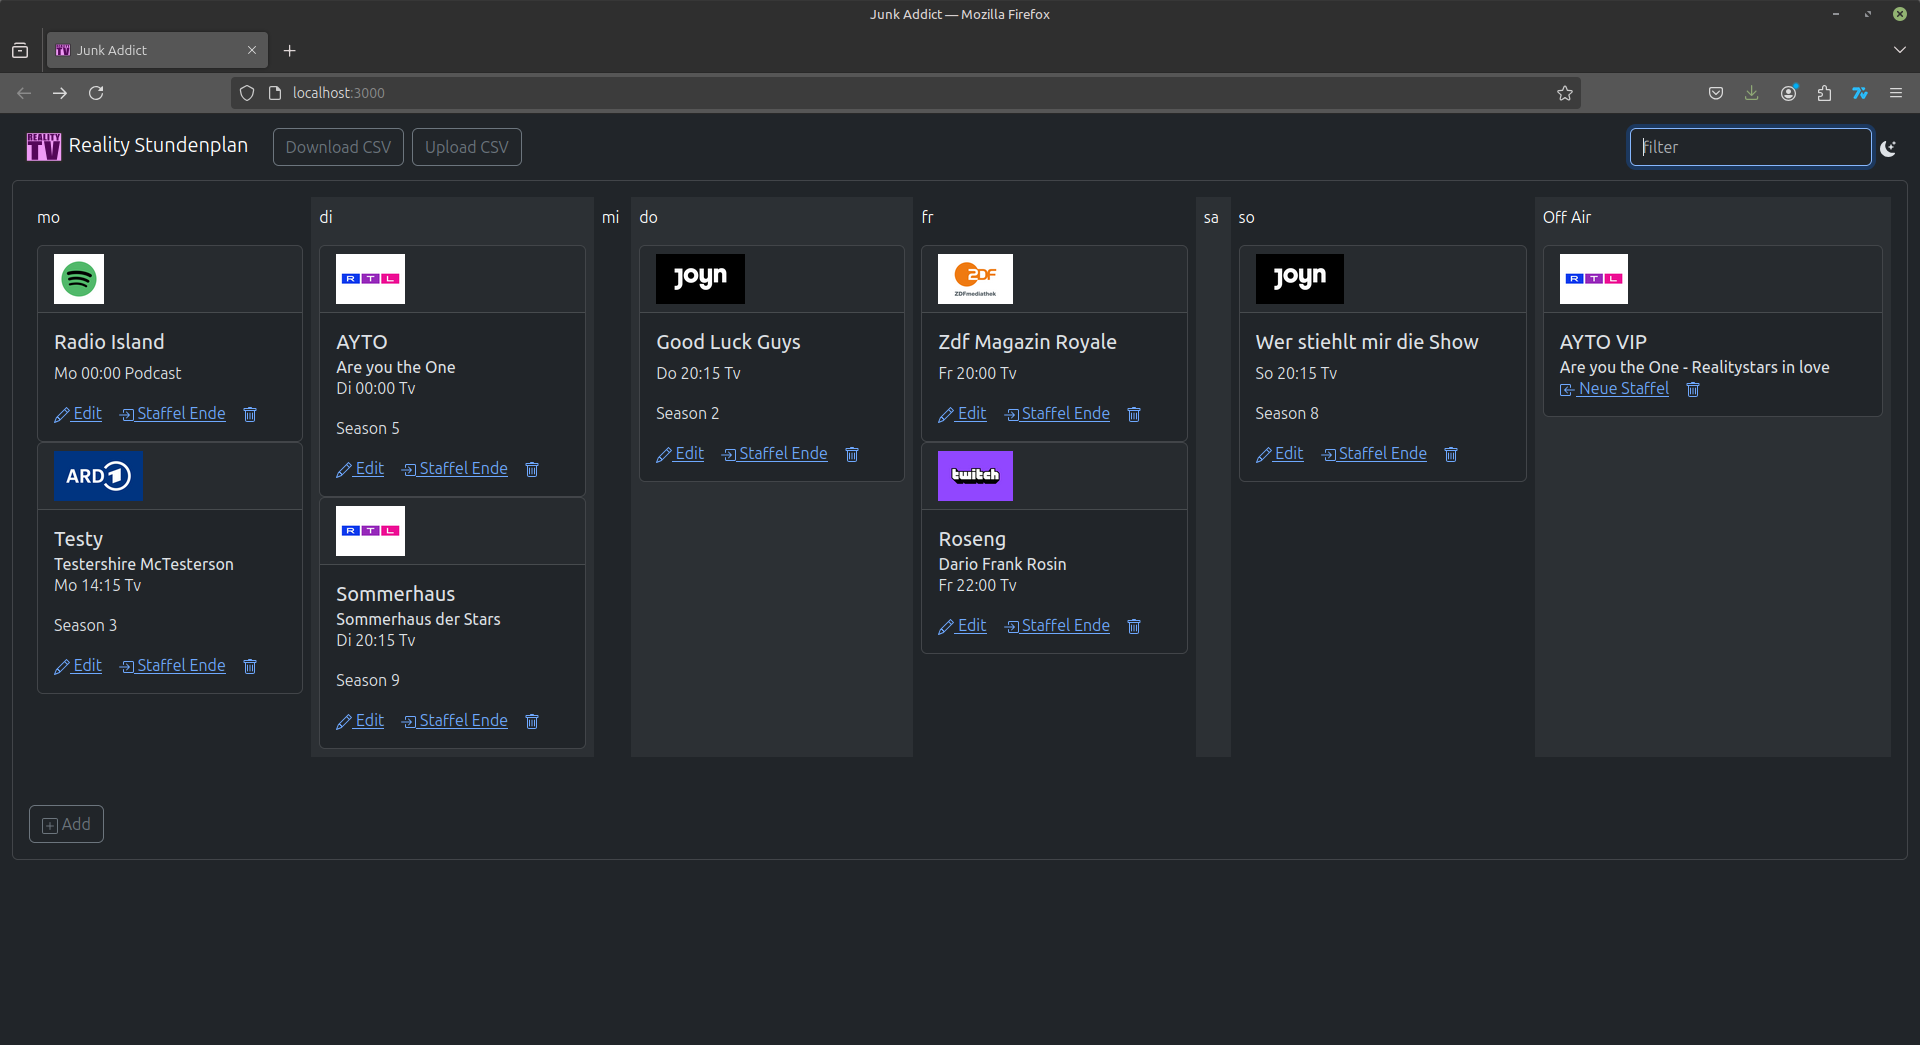
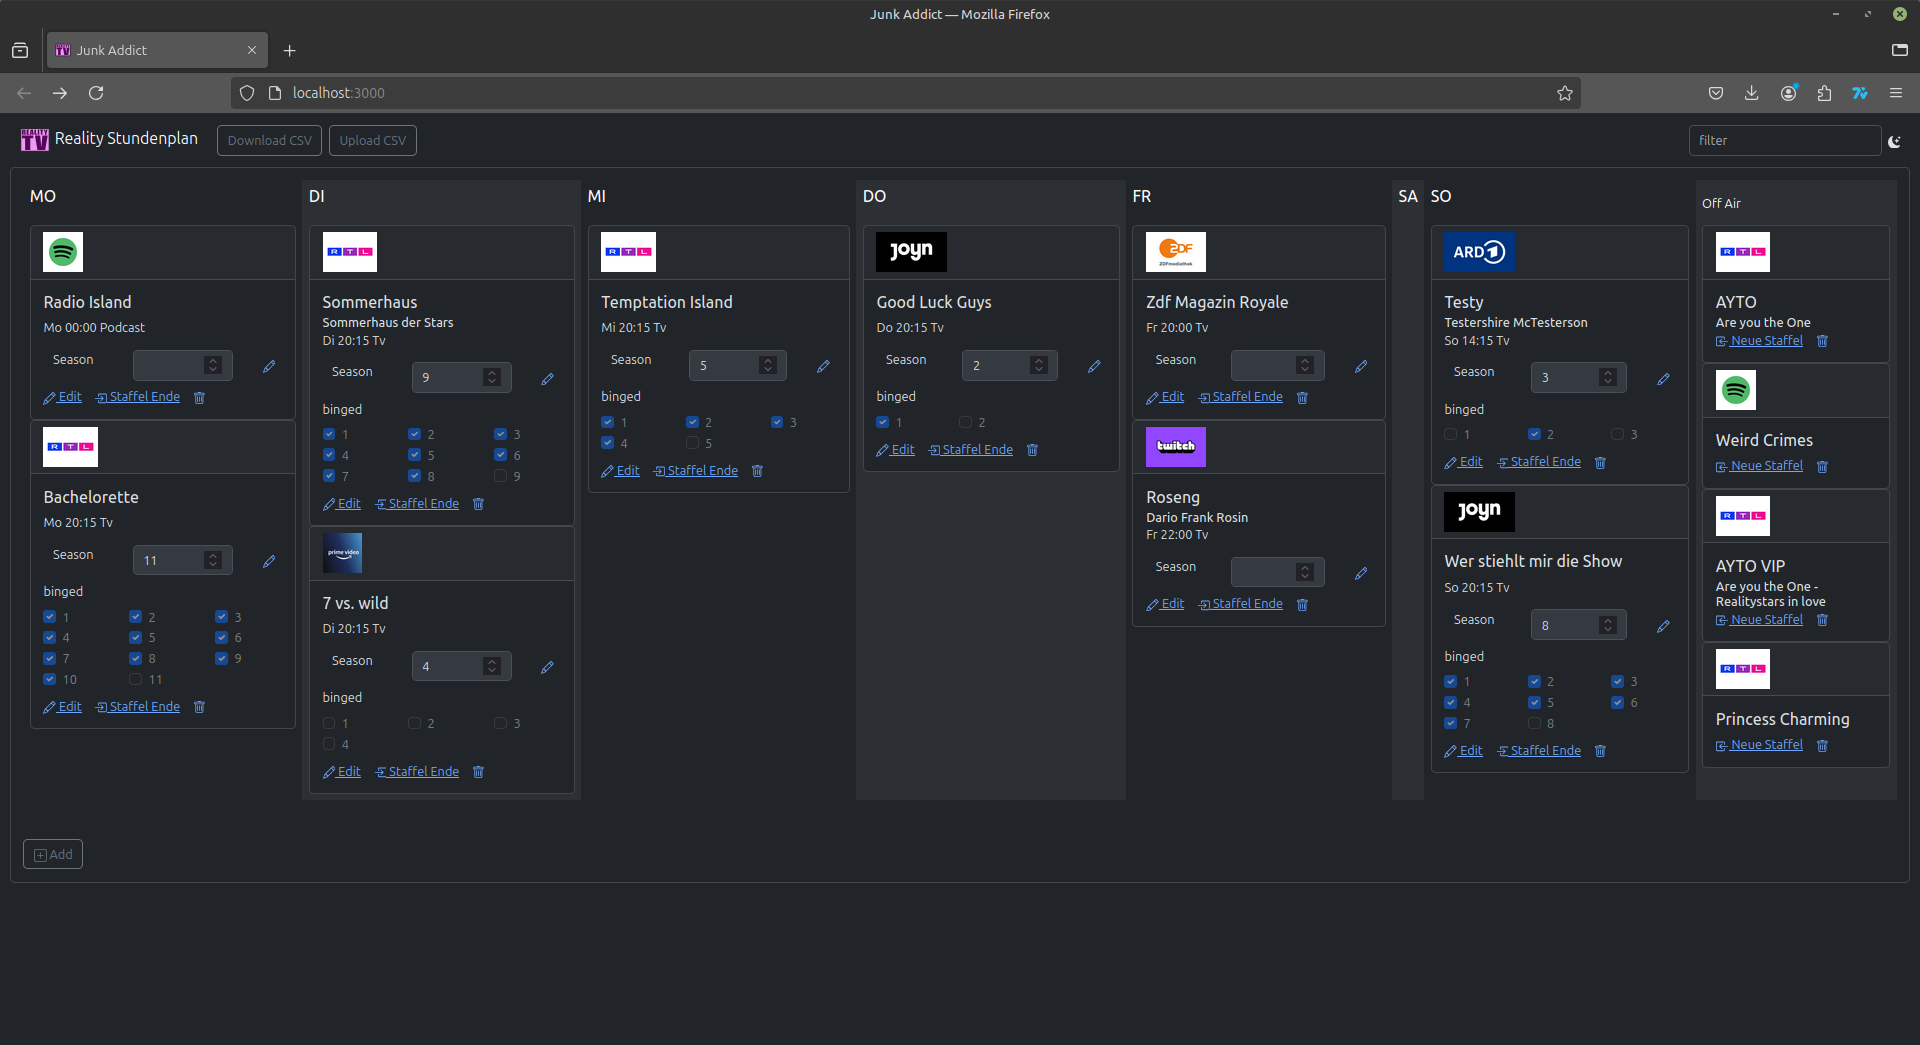
cleanup

diff --git a/src/components/junk/JunkTableCard.jsx b/src/components/junk/JunkTableCard.jsx
@@ -16,7 +16,7 @@ function JunkTableCard({displayPrograms, addNewProgram, changeProgram, removePro
     onAirPrograms.map((p) => dayGroups[p.day].push(p));
 
     const displayTableHeaders = (Object.keys(dayGroups))
-        .map((k) => <td key={k}>{k}</td>);
+        .map((k) => <td key={k}><h5>{k.toUpperCase()}</h5></td>);
     displayTableHeaders.push(<td key="currentlyOff">Off Air</td>);
 
     const displayTableBodyJunkDays = (Object.entries(dayGroups))

diff --git a/public/index.html b/public/index.html
@@ -6,7 +6,7 @@
     <link rel="icon" href="%PUBLIC_URL%/favicon.svg">
     <title>Junk Addict</title>
   </head>
-  <body>
+  <body style="zoom: 80%">
     <noscript>You need to enable JavaScript to run this app.</noscript>
     <div id="root"></div>
   </body>

diff --git a/README.md b/README.md
@@ -4,7 +4,7 @@ A timetable to manage all the junk you watch.
 
 ![Screenshot of Application](./src/assets/JunkAddictScreenshot.png)
 
-Find an example for a CSV file to upload in the application here [junkDataExport.csv](./src/data/junkDataExport_2024-09-29.csv) or download it from the application.
+Find an example for a CSV file to upload in the application here [junkDataExport.csv](./src/data/junkDataExport_2024-10-03.csv) or download it from the application.
 
 ## Available Scripts
 
